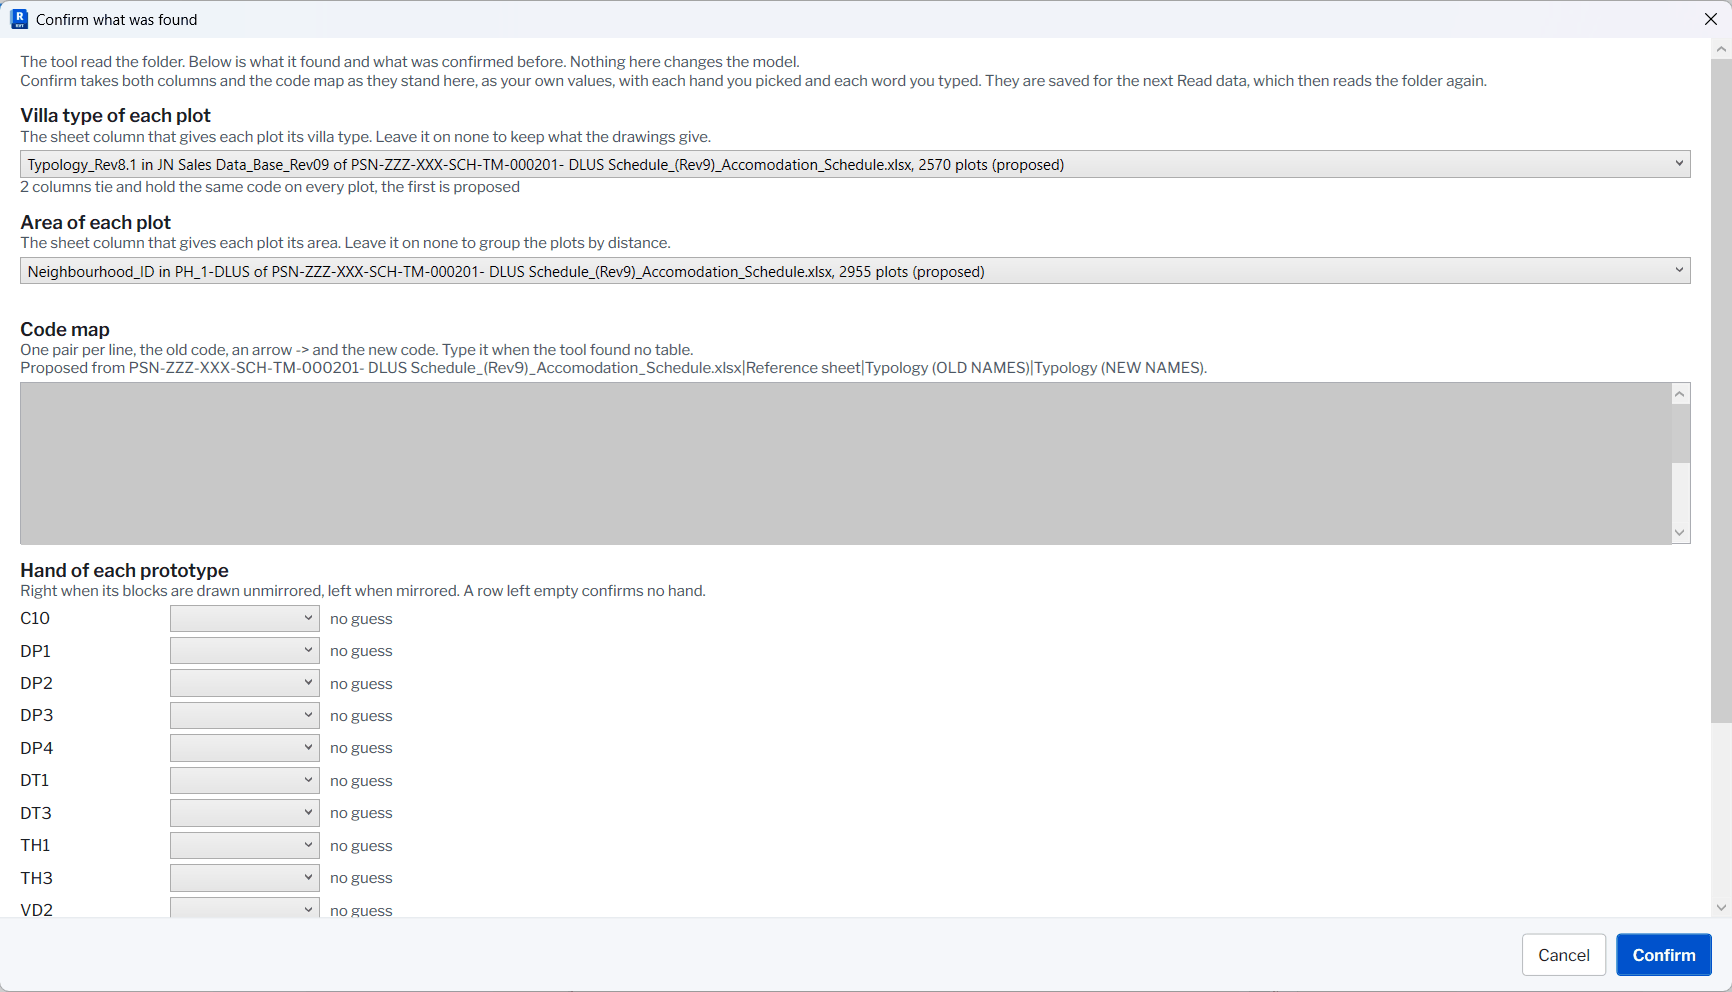
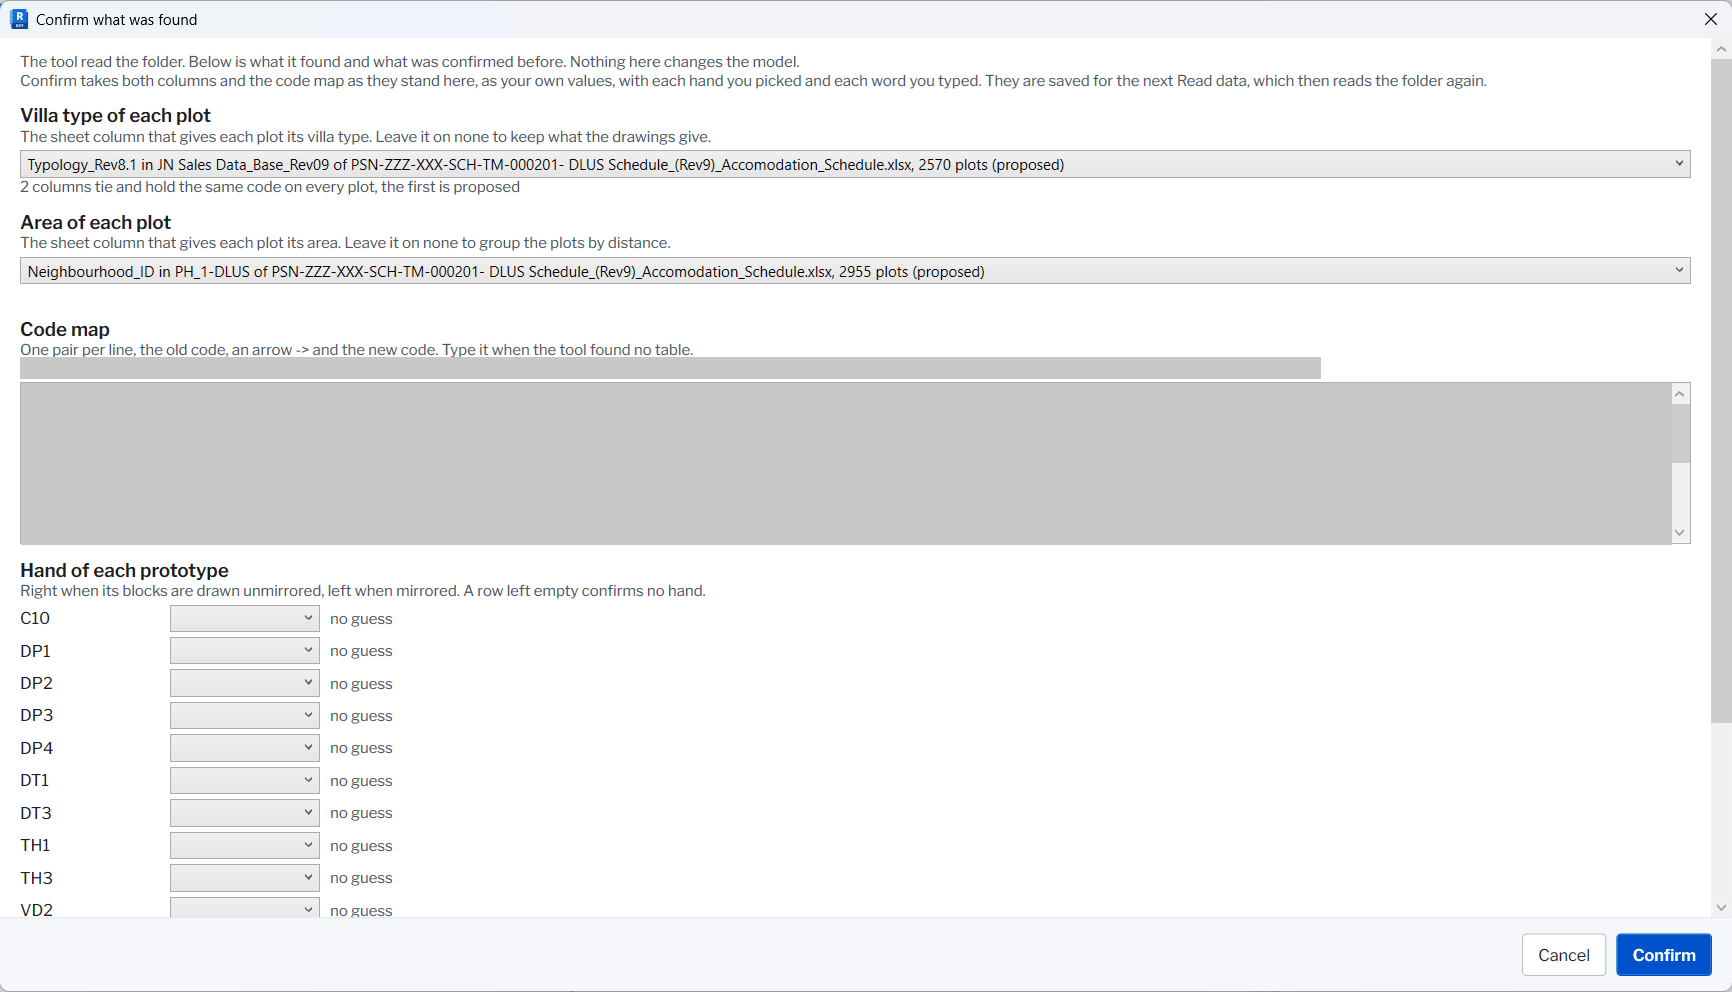
FAST-3-revit-test review 1: blank the road edge layer name and the code map header line, README rows for the last two shots

Changed region(s): [[0.0, 0.3438, 0.7794, 0.4062]]

diff --git a/steps/ui-shots/README.md b/steps/ui-shots/README.md
@@ -18,7 +18,7 @@ Control 3 of docs/design/12-ui-spec.md, UI controls. Each PNG is a render of a w
 | new-project.png | The New project window of Lane C NEWPROJ-UI, the site drawing and the plot list found, road levels and the parameter sheet missing as on the board, sample counts 337 plots and 14 villa types, the content of the window at 1080 wide with no title bar of Windows | Draft (Q286) |
 | road-surfaces.png | The window Road surfaces of Lane D FIX-2NOV-D, R492, two surfaces ticked in order, sample names made up, no board holds it | Draft (Q370) |
 | how-it-works.png | The How it works page of Lane C NEWPROJ-UI, the 9 steps, the content of the window at 1080 wide with no title bar of Windows | Draft (Q286) |
-| pane-stage-1.png | Card 1 Project data of the pane in 3 stages, taken in Revit in FAST-3-revit-test run 1 on 7 Nov 2026, the rows of the first read of S1, counts and the layer names of config only | Taken in Revit, for Bader's check |
+| pane-stage-1.png | Card 1 Project data of the pane in 3 stages, taken in Revit in FAST-3-revit-test run 1 on 7 Nov 2026, the rows of the first read of S1, counts and the layer names of config only, the road edge line blanked as its layer name is in no config | Taken in Revit, for Bader's check |
 | pane-stage-2.png | Card 2 Build site, taken in Revit in FAST-3-revit-test run 1, scope NBH 010, the line of the plan and where the Build stopped, the coordinates of the drawing blanked | Taken in Revit, for Bader's check |
 | build-preview.png | The 2D preview of a plan of FAST-1-build-1 item 4, 7 made up plot outlines north up and the line of plots and issues, Cancel and Go on | Draft, not seen in Revit |
 | pane-stage-3.png | Card 3 Review and deliver, taken in Revit in FAST-3-revit-test run 1: the issues count with Open rules, the road level line, the source mix bar and its line, Report and Update from report | Taken in Revit, for Bader's check |
@@ -28,11 +28,13 @@ Control 3 of docs/design/12-ui-spec.md, UI controls. Each PNG is a render of a w
 | revit-new-project.png | The New project window from Settings, Project setup, Edit, in FAST-3-revit-test run 1 | Taken in Revit |
 | revit-project-rules.png | The rules table of the project from Settings, Rules, Open, no rules chosen, 15 rules not confirmed | Taken in Revit |
 | revit-setup-site.png | Set up site on the empty model after Use CAD and a dry run, the check point tables blanked | Taken in Revit |
-| revit-scan-results.png | The window What the tool read after the first read of S1, counts and the layer names of config only | Taken in Revit |
-| revit-confirm-profile.png | The window Confirm what was found, the code map blanked | Taken in Revit |
+| revit-scan-results.png | The window What the tool read after the first read of S1, counts and the layer names of config only, the road edge line blanked as its layer name is in no config | Taken in Revit |
+| revit-confirm-profile.png | The window Confirm what was found, the code map and the line naming its sheet and columns blanked | Taken in Revit |
 | revit-ask-rules.png | The one ask of the first Build with no rules chosen | Taken in Revit |
 | revit-build-preview.png | The Preview of the build, the drawing of the real plot outlines blanked | Taken in Revit |
 | revit-review-data.png | 3 Review data on NBH 010 as the Build opens it, plot numbers, areas and the folder path blanked | Taken in Revit |
+| revit-how-it-works.png | The window How it works from Advanced, Help, still the 9 steps of version 1 (F17 of steps/seam.md) | Taken in Revit |
+| revit-update-from-report.png | The window Update from report from card 3, no report Excel picked | Taken in Revit |
 
 Bader's changes of 28 Oct 2026 (docs/design/13-workflow-changes.md) were rendered into all three in Lane B 5a PR 8, his UI answers Q135, Q139 and Q140 of 29 Oct 2026 in Lane B 5a run 3 (fixed items 12 to 14). Set up site is built in 5b (W1 of steps/lane-b.md), its PNG is setup-site.png and its lists are at the end of this file. Review data is built in 5c (W5), its PNG is review-data.png and its list is at the end of this file. Site Adaptation Rules is built in 5c (W3), its PNG is rules.png and its list is at the end of this file. The check table is built in 5c (W11), its PNG is check-table.png and its notes are at the end of this file. Update from report is built in 5f (W8), its PNG is update-from-report.png and its differences are at the end of this file.
 

diff --git a/steps/revit-results/FAST-3-revit-test.md b/steps/revit-results/FAST-3-revit-test.md
@@ -81,7 +81,7 @@ The tool did not build the site in run 1. Floors and ramps, Levels, Place villas
 
 ## Window shots in git
 
-steps/ui-shots/: pane-stage-1.png, pane-stage-2.png, pane-stage-3.png, revit-new-project.png, revit-project-rules.png, revit-setup-site.png, revit-scan-results.png, revit-confirm-profile.png, revit-ask-rules.png, revit-build-preview.png, revit-review-data.png, revit-how-it-works.png, revit-update-from-report.png. Each cut from a shot of the real run, a real value blanked where one stood: the check point tables, the code map, the drawing of the plot outlines, the plot numbers, areas and folder path, the coordinates line. Not shot: Road surfaces, the check table of step 4 (never opened as step 4 stopped first), the Site Adaptation Rules window of the ribbon, Use a saved project.
+steps/ui-shots/: pane-stage-1.png, pane-stage-2.png, pane-stage-3.png, revit-new-project.png, revit-project-rules.png, revit-setup-site.png, revit-scan-results.png, revit-confirm-profile.png, revit-ask-rules.png, revit-build-preview.png, revit-review-data.png, revit-how-it-works.png, revit-update-from-report.png. Each cut from a shot of the real run, a real value blanked where one stood: the check point tables, the code map and the line naming its sheet and columns, the drawing of the plot outlines, the plot numbers, areas and folder path, the coordinates line, the road edge line whose layer name is in no config. Not shot: Road surfaces, the check table of step 4 (never opened as step 4 stopped first), the Site Adaptation Rules window of the ribbon, Use a saved project.
 
 ## Not seen in Revit, UNKNOWN
 
